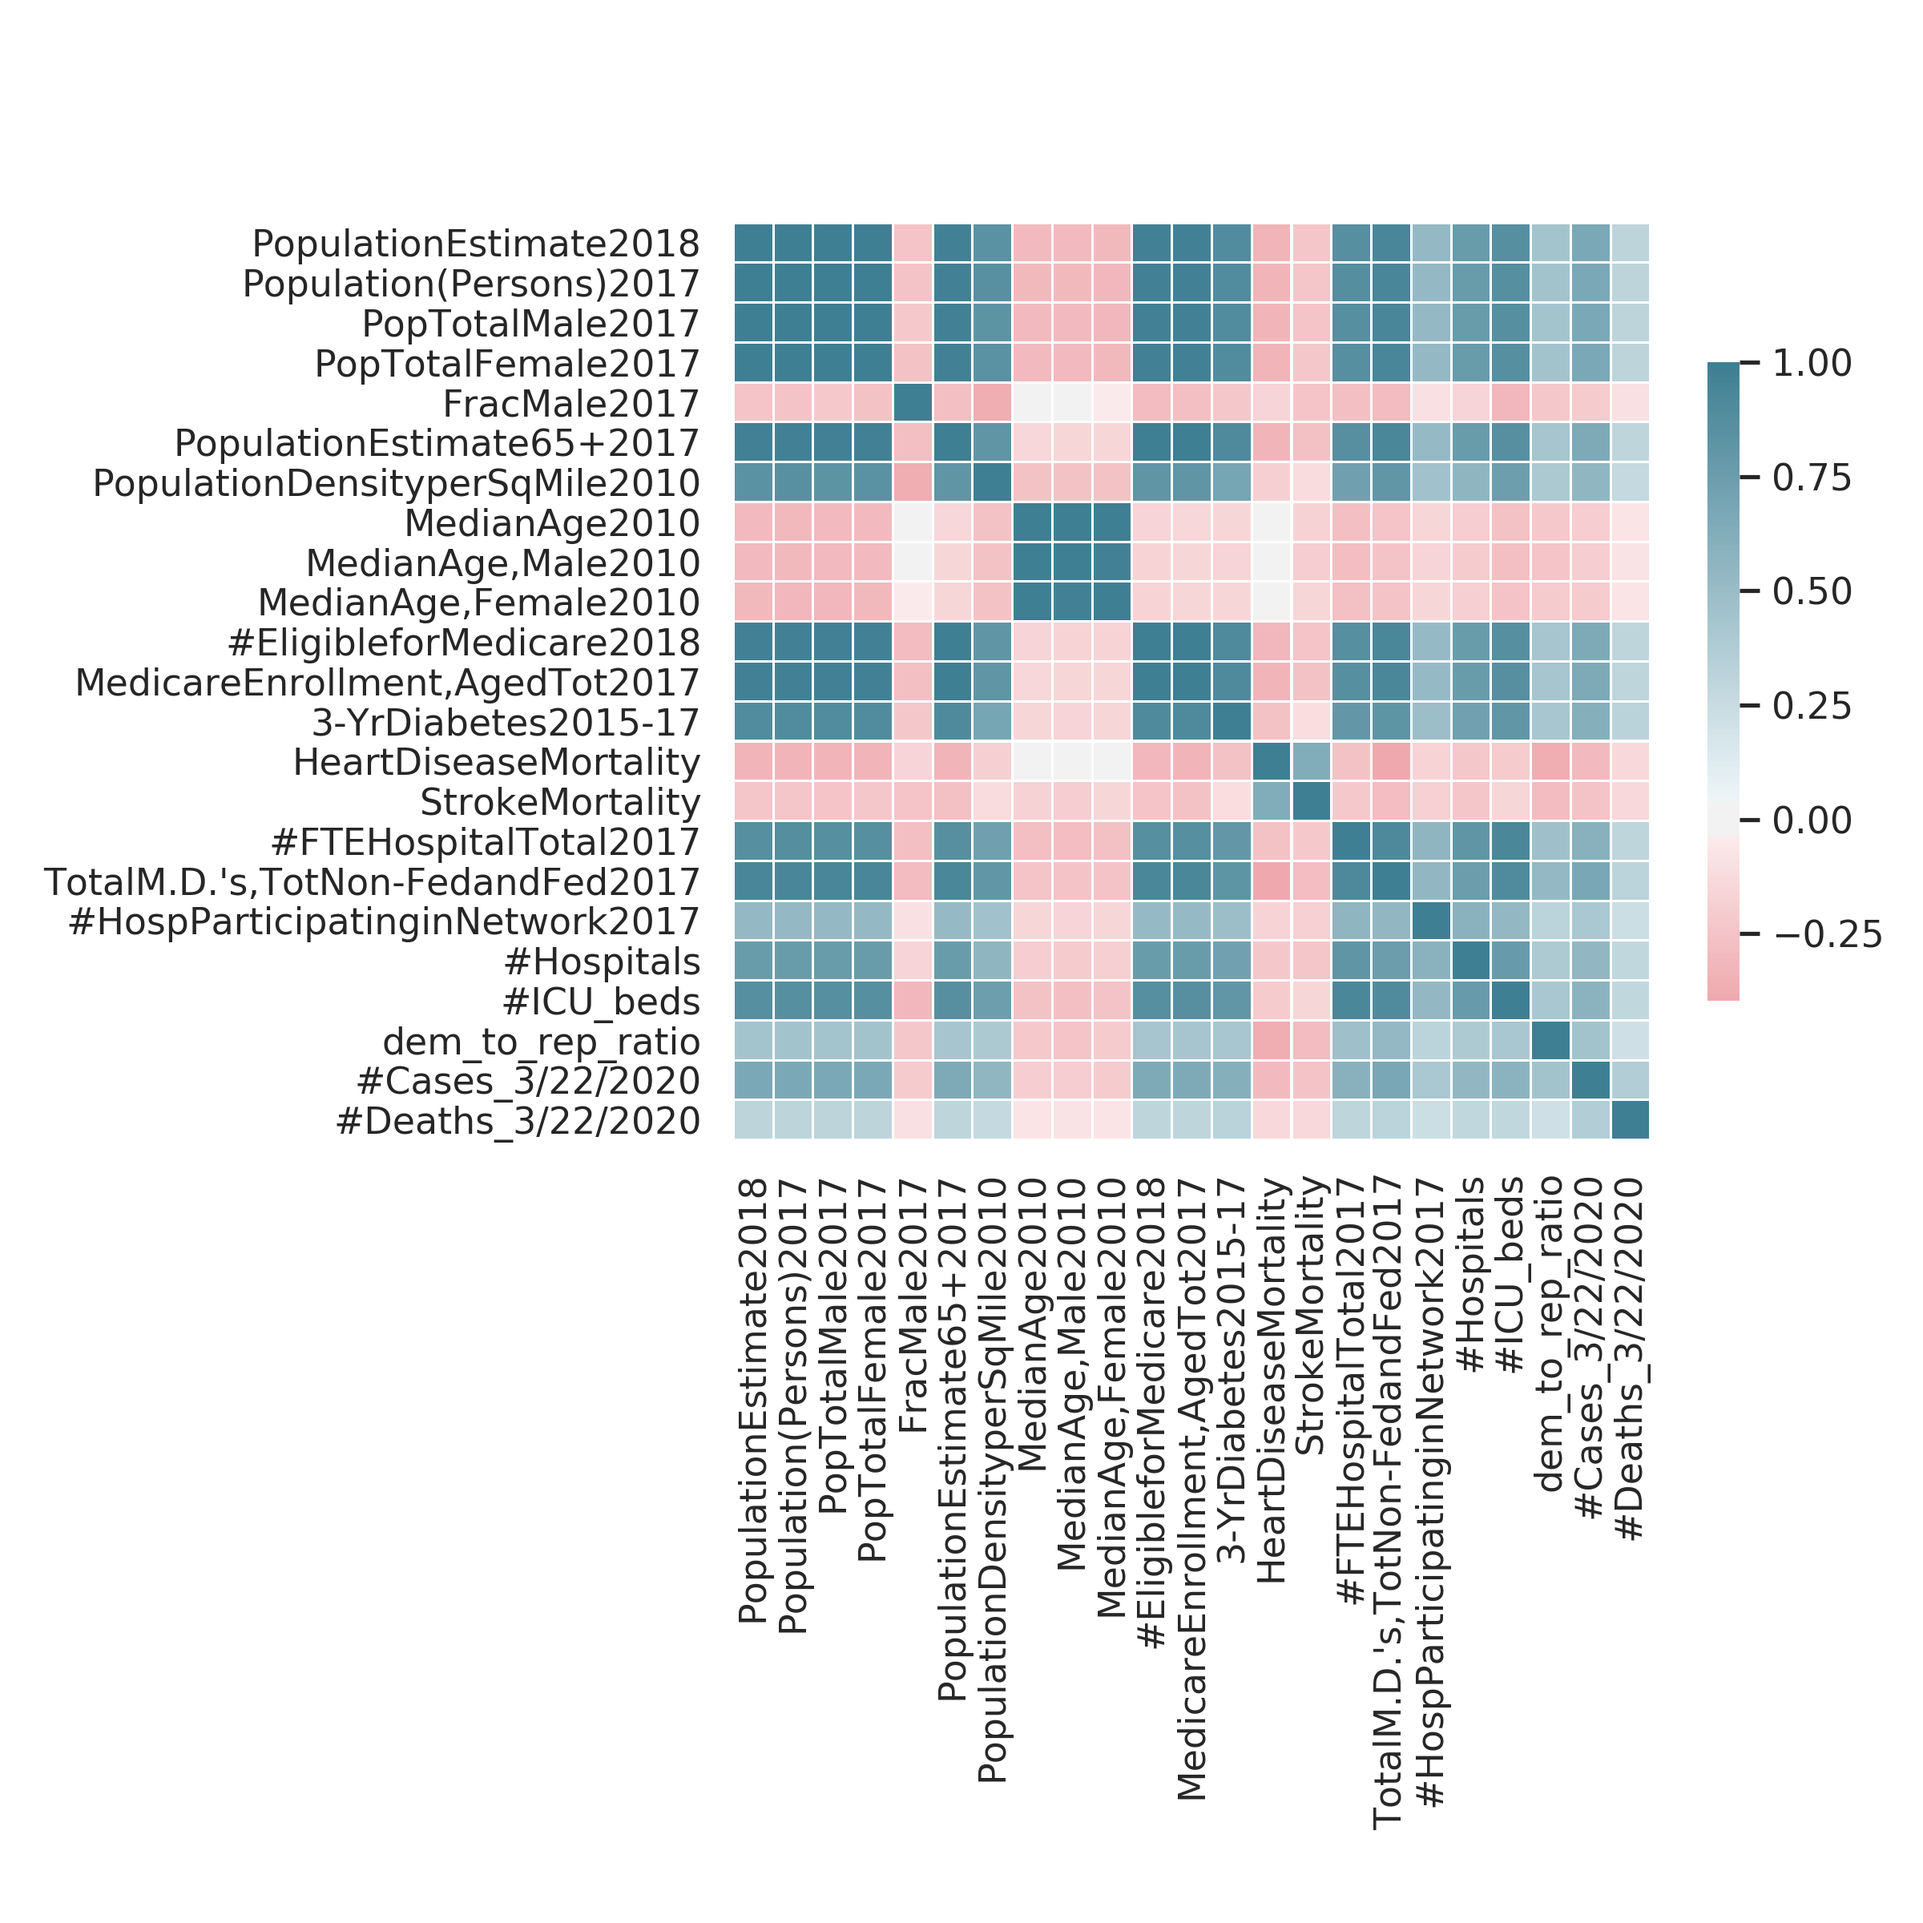
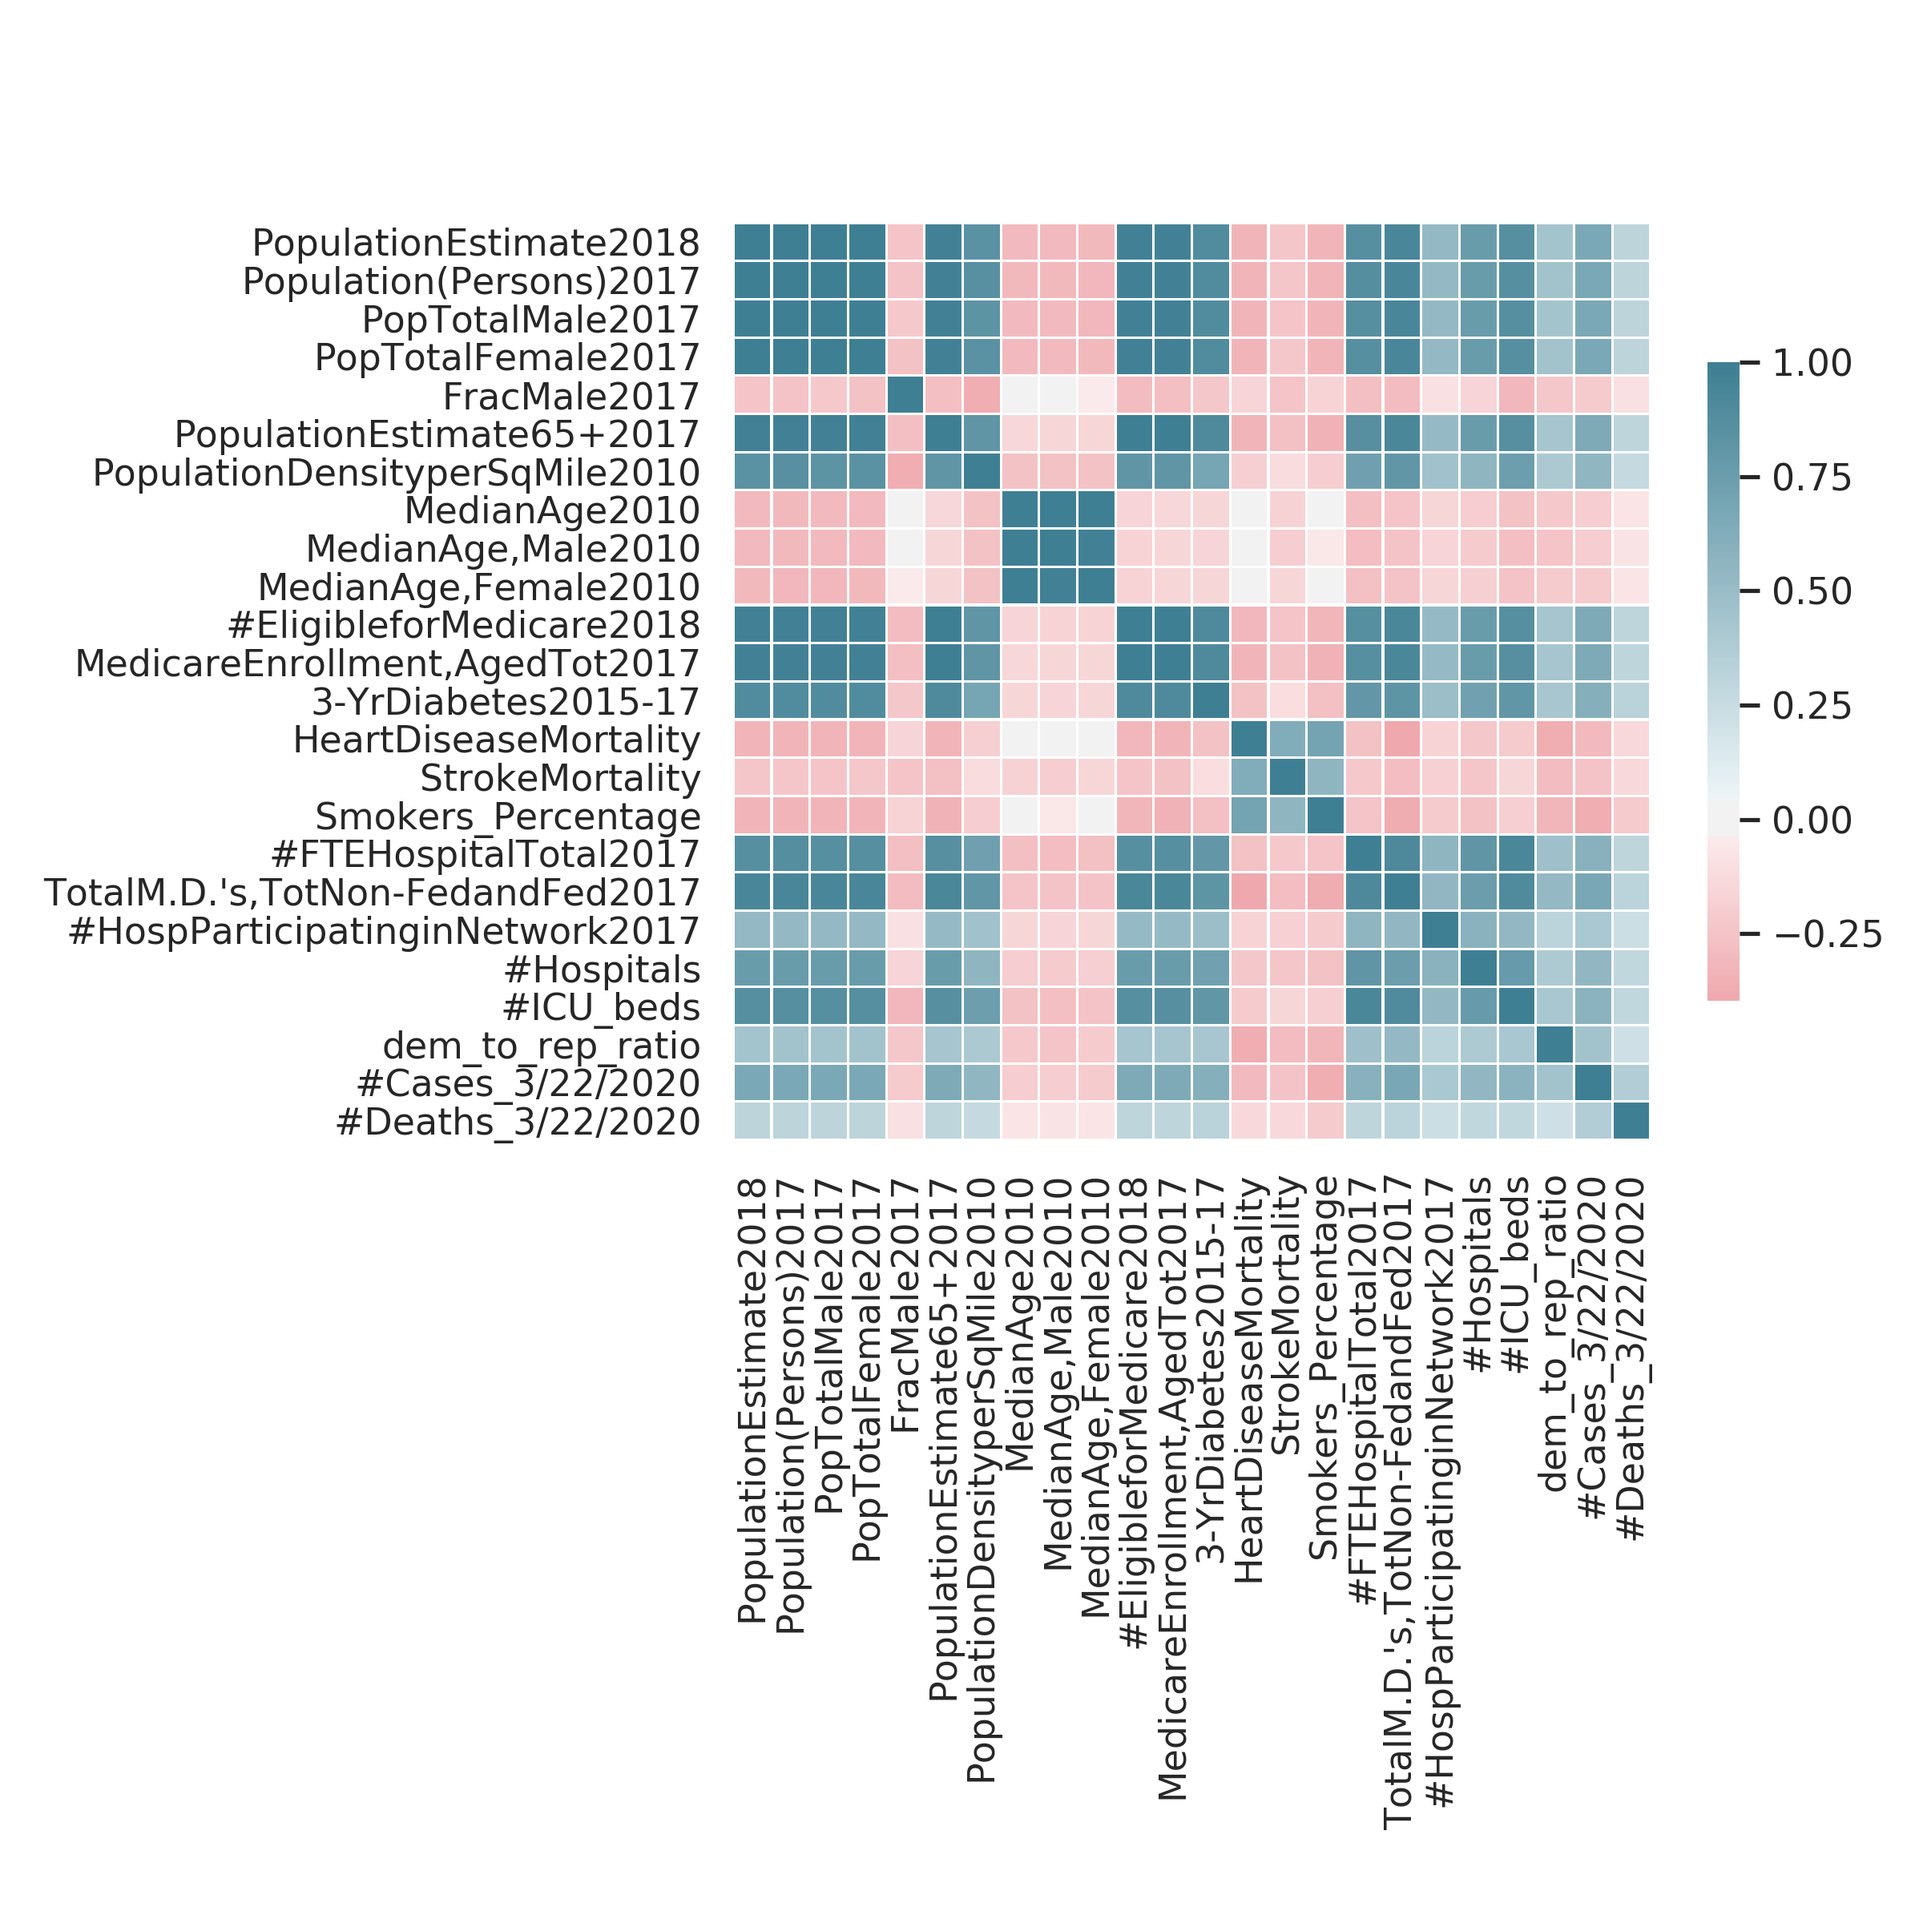
integrate tobacco data

Changed region(s): [[0.0312, 0.0938, 0.875, 0.9375]]

diff --git a/functions/load_tobacco_use_data.py b/functions/load_tobacco_use_data.py
@@ -21,5 +21,5 @@ def loadTobaccoData():
         data_ls.append(data)
     
     data = pd.concat(data_ls)
-    data.columns = ["countyFIPS", "% Smokers"]
+    data.columns = ["countyFIPS", "Smokers_Percentage"]
     return data
